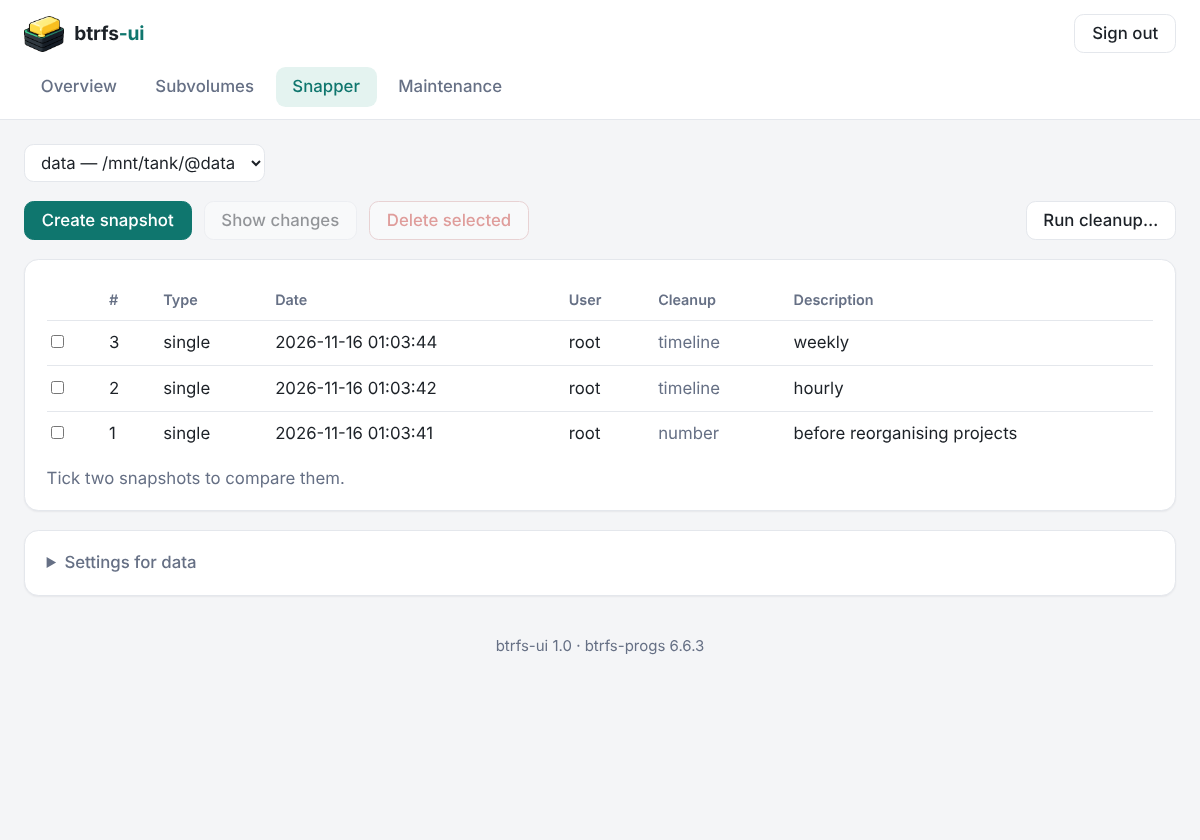
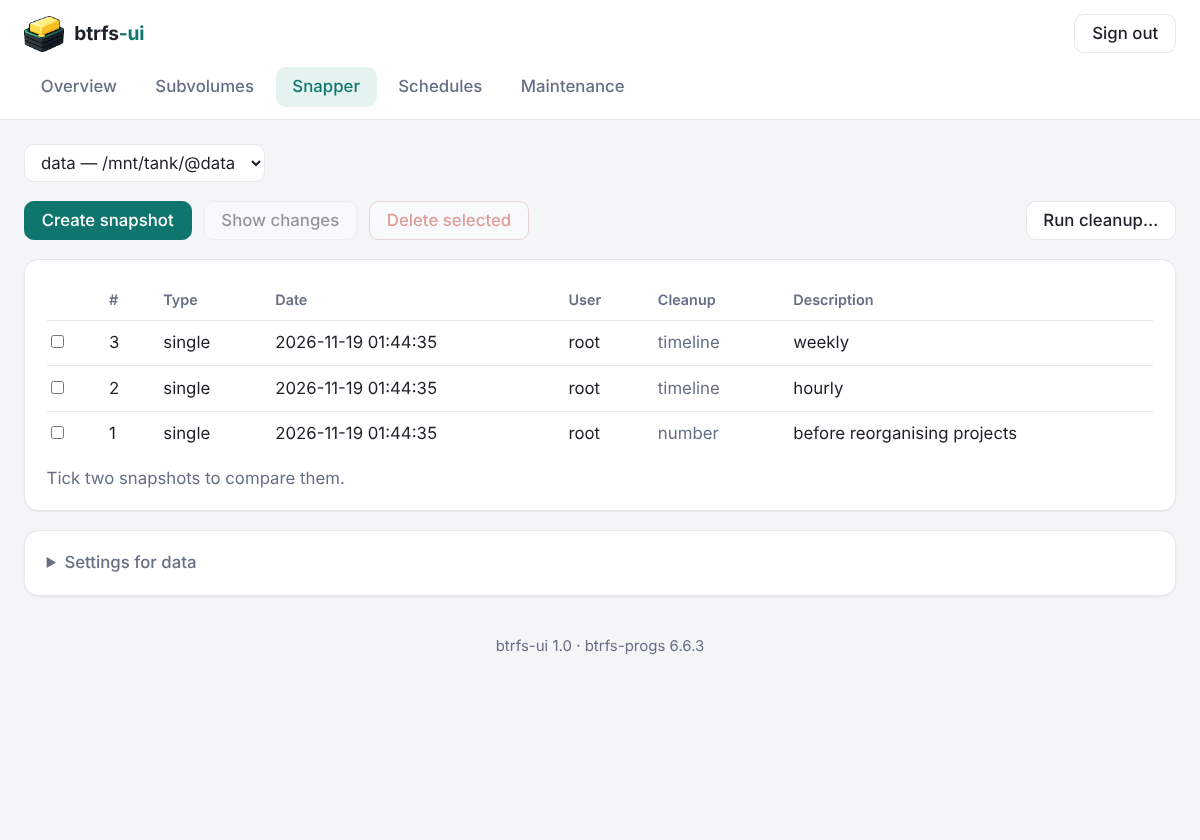
Document Schedules, update compose and screenshots
- docker-compose.yml and the README compose block: TZ, list-style
  environment, and a ./data:/data volume for schedules
- README: Schedules feature, requirements row, Schedules section,
  configuration rows and a troubleshooting entry
- Retake all screenshots (new Schedules tab in the header) and add
  Schedules screenshots
- Schedules table: keep dates on one line, shorter destination text

diff --git a/app/static/app.js b/app/static/app.js
@@ -580,10 +580,10 @@ async function viewSchedules(root) {
       h('td', null,
         r.type === 'snapshot' ? h('span', null, 'Snapshot of ', h('span', { class: 'mono' }, r.source)) : 'Scrub',
         r.type === 'snapshot'
-          ? h('div', { class: 'muted' }, `into ${r.dest}/ as ${r.prefix}-…, keep ${r.keep}`) : null),
+          ? h('div', { class: 'muted' }, `${r.dest}/${r.prefix}-…, keep ${r.keep}`) : null),
       h('td', null, whenText(r)),
-      h('td', null, r.enabled ? r.next_text : badge('paused', 'warn')),
-      h('td', null,
+      h('td', { class: 'nowrap' }, r.enabled ? r.next_text : badge('paused', 'warn')),
+      h('td', { class: 'nowrap' },
         r.last_status ? badge(r.last_status, resultKind(r.last_status)) : h('span', { class: 'muted' }, 'not yet'),
         r.last_text ? h('div', { class: 'muted' }, r.last_text) : null),
       h('td', { class: 'actions' },

diff --git a/README.md b/README.md
@@ -55,6 +55,8 @@ This build contains a Flask backend that runs `btrfs` and `snapper`, with some p
   sizes when quotas are enabled, create, snapshot, toggle read-only, delete.
 - **Snapper**: list, create and delete snapshots, compare two snapshots, edit the
   timeline/number retention settings, run cleanup.
+- **Schedules**: take snapshots on a schedule and keep only the newest few, or run a
+  scrub on a schedule. Needs the `/data` volume, see below.
 - **Maintenance**: scrub (start, cancel, resume), balance with usage filters, defragment
   (with optional recompression), trim, and a list of background jobs with their output.
 
@@ -77,12 +79,14 @@ adding or removing devices.
        security_opt:
          - no-new-privileges:true
        environment:
-         BTRFS_UI_PASSWORD: "change-me"
-         # BTRFS_UI_READONLY: "1"                # browse only, no changes
-         # BTRFS_UI_COOKIE_SECURE: "1"           # set when served over HTTPS
+         - TZ=America/New_York
+         - BTRFS_UI_PASSWORD=change-me
+         # - BTRFS_UI_READONLY=1                # browse only, no changes
+         # - BTRFS_UI_COOKIE_SECURE=1           # set when served over HTTPS
        volumes:
          - /mnt/btrfs-root:/mnt/btrfs-root     # top level (subvolid=5) to make subvolumes reachable
          - /var/lib/btrfs:/var/lib/btrfs     # scrub history
+         - ./data:/data     # schedules and their history (optional)
          # - /etc/snapper:/etc/snapper     # only for the Snapper tab
          # - /mnt/btrfs-root/@data:/mnt/btrfs-root/@data     # each config directory
        restart: unless-stopped
@@ -99,6 +103,7 @@ Change the password (the container refuses to start otherwise), then open `http:
 | Bind mounts of your btrfs mount points | The container only sees what you mount into it. Use the **same path as on the host**. |
 | `/var/lib/btrfs` from the host | btrfs stores scrub history there. Without it the UI cannot see past scrubs and says "never run". |
 | `/etc/snapper` (optional) | Only for the Snapper tab. |
+| `/data` (optional) | Only for the Schedules tab. Keeps your schedules and what they have run. |
 
 No `/dev` access is needed. It runs as root inside the container, which btrfs requires.
 
@@ -131,6 +136,32 @@ volumes:
   - /etc/snapper:/etc/snapper
   - /srv/photos:/srv/photos      # a config with SUBVOLUME="/srv/photos"
 ```
+
+### Schedules
+
+The Schedules tab runs two kinds of job on a schedule (hourly, daily, weekly or
+monthly): a snapshot of a subvolume, or a scrub.
+
+<a href="docs/screenshots/schedules-light.png"><picture>
+  <source media="(prefers-color-scheme: dark)" srcset="docs/screenshots/schedules-dark.png">
+  <img src="docs/screenshots/schedules-light.png" alt="Schedules tab" width="600">
+</picture></a>
+
+Snapshots are read-only and are named `prefix-YYYY-MM-DD_HHMM` in a folder you pick.
+After each new snapshot, the ones beyond the number you chose to keep are deleted. Only
+snapshots that schedule made are ever touched (matching name, read-only, a snapshot of
+the same subvolume), so anything you made by hand in that folder is left alone. A scrub
+is skipped if one is already running.
+
+Schedules and a short history are saved in `/data`, which is why the compose file mounts
+`./data:/data`. Without it the tab says so and nothing is scheduled. Times are the
+container's time, so set `TZ` in the compose file. If the container was down when a run
+was due, it runs once when the container starts. In read-only mode schedules are shown
+but never run.
+
+Scrubs started by cron or OMV still show up in the UI (it reads `/var/lib/btrfs`), but
+btrfs-ui does not manage those schedules. If something else already snapshots or scrubs
+on a schedule, use one or the other so you do not get doubles.
 <br>
 
 ## Configuration
@@ -147,6 +178,8 @@ All through environment variables.
 | `BTRFS_UI_SECRET` | random | Session signing key. Set it if you want logins to survive restarts. |
 | `BTRFS_UI_HOST` / `BTRFS_UI_PORT` | `0.0.0.0` / `8008` | Listen address inside the container. |
 | `BTRFS_UI_SNAPPER_ROOT` | – | Experimental, see above. |
+| `BTRFS_UI_DATA_DIR` | `/data` | Where schedules are saved. |
+| `TZ` | `UTC` | Container time zone. Schedule times, and the times snapper and scrub show, follow it. |
 <br>
 
 ## Security
@@ -189,6 +222,8 @@ line with `build: .`. Start it with `docker compose up -d --build`.
   check the version in the footer. If you build it yourself, add `--build` instead.
 - **Snapper tab is empty**: see "Snapper" above; the configs and the snapshotted
   directories both have to be mounted at the same paths as on the host.
+- **Schedules tab says schedules are off**: mount a folder at `/data` (`- ./data:/data`
+  in the compose file) and restart the container.
   <br><br>
   
 
